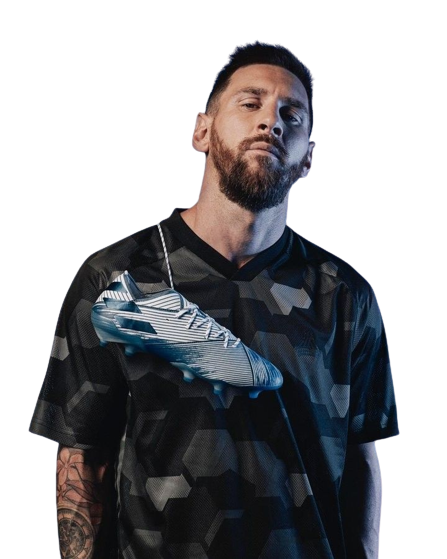
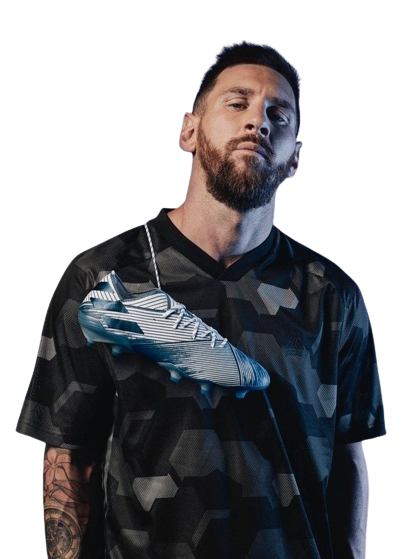
Revisi 2

diff --git a/asset/js/app.js b/asset/js/app.js
@@ -1,3 +1,17 @@
+// hero gonta ganti
+const imgaes = [
+  "asset/img/hero.png",
+  "asset/img/hero2.png",
+  "asset/img/hero3.png",
+  "asset/img/hero4.png",
+  "asset/img/hero6.png",
+];
+const heroImages = document.querySelector(".img-hero");
+let imgIndex = 0;
+setInterval(() => {
+  imgIndex = (imgIndex + 1) % imgaes.length;
+  heroImages.src = imgaes[imgIndex];
+}, 5000);
 // Toogle class active
 const navMenu = document.querySelector(".nav-menu");
 
@@ -22,4 +36,3 @@ window.addEventListener("scroll", () => {
 function imgSlider(a) {
   document.querySelector(".t-shirt").src = a;
 }
-// Ketersediaan Fungsi

diff --git a/asset/css/style.css b/asset/css/style.css
@@ -139,6 +139,9 @@ nav .container .hamburger-menu {
   background-color: #fff;
   color: var(--bgColor);
 }
+#hero .container .col-1 .img-hero {
+  transition: all 0.3 ease-in-out;
+}
 /* Hero */
 /* Product */
 #product {
@@ -574,10 +577,11 @@ nav .container .hamburger-menu {
   html {
     font-size: 62.5%;
   }
-  nav .container,
   #hero .container,
   #contact .container,
-  #product .container #footer .container {
+  #product .container,
+  #footer .container,
+  #customize .container {
     width: 90%;
     flex-wrap: wrap;
     gap: 10px;

diff --git a/index.html b/index.html
@@ -74,7 +74,7 @@
           <button onclick="return  alert('we dont have a function for this feature yet')">Start Now</button>
         </div>
         <div class="col-2">
-          <img src="asset/img/hero.png" alt="" />
+          <img src="asset/img/hero.png" alt="" width="447px" class="img-hero"/>
         </div>
       </div>
     </section>
